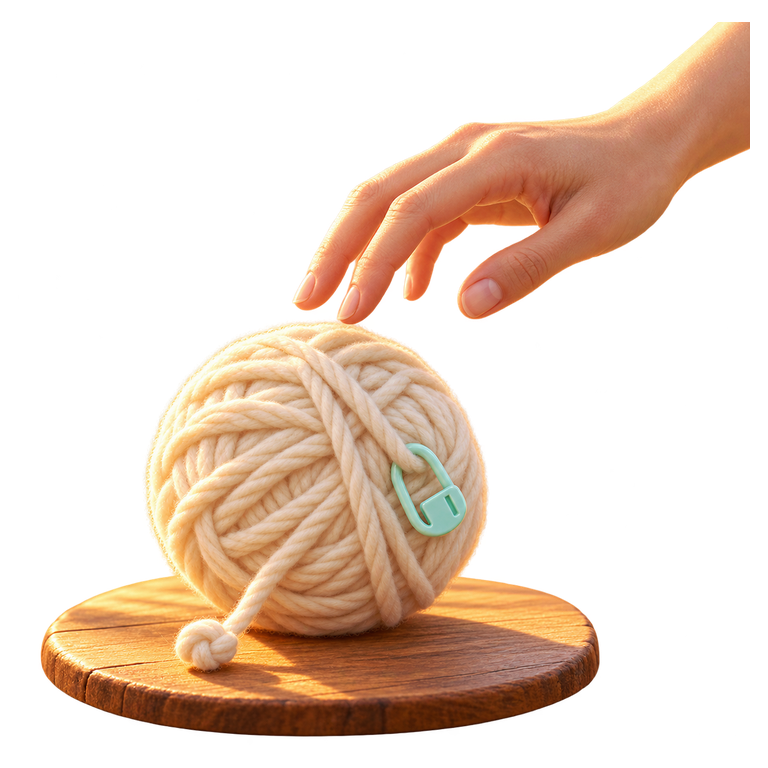
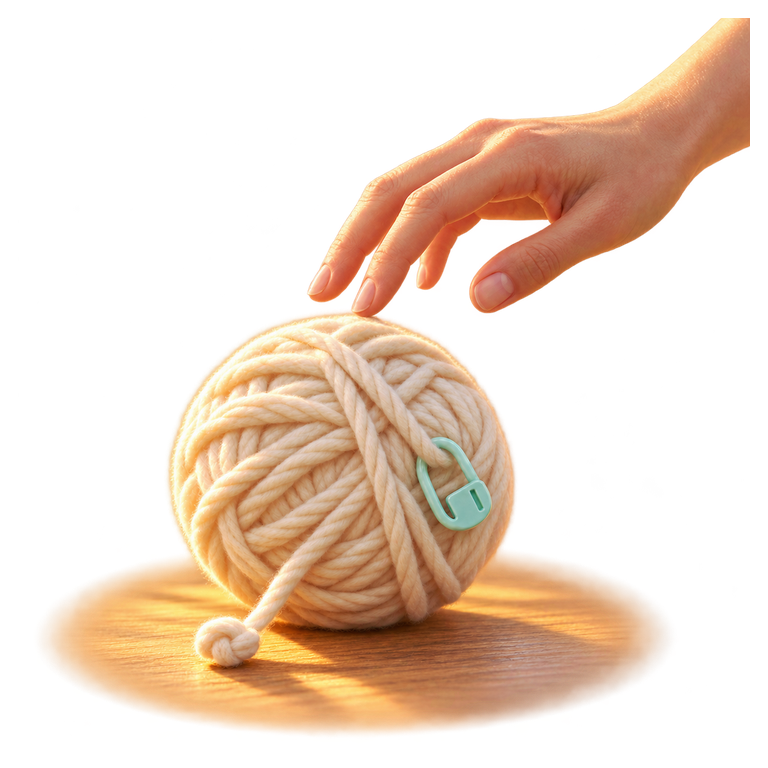
터비 종장 F-6: 보정 에셋 4종 연결(codex/turby-final-assets 5003319 delivery-v4) — 결속 실루엣·실의 길 경계·털실/엄마 손 원반 제거, 화면 전체 연출이 시작되면 원형 기억 비침도 걷는다

diff --git a/save-a-turby/test/finalArt.test.ts b/save-a-turby/test/finalArt.test.ts
@@ -1,4 +1,4 @@
-// 10-26 F-2·F-4: 종장 1·2차 에셋 연결 — 파일·키(파일명)·크기·알파·해시(Codex manifest, codex/turby-final-assets 9e64b65), 지도·대화 배경·연출 키가 지역 데이터·대화와 맞는다.
+// 10-26 F-2·F-4·F-3b, 10-27 F-6 보정(codex/turby-final-assets 5003319): 종장 에셋 연결 — 파일·키(파일명)·크기·알파·해시(Codex manifest, codex/turby-final-assets 9e64b65), 지도·대화 배경·연출 키가 지역 데이터·대화와 맞는다.
 import { test } from 'node:test';
 import assert from 'node:assert/strict';
 import { createHash } from 'node:crypto';
@@ -13,7 +13,7 @@ const ASSETS: [string, string, number, number, boolean, string][] = [
[6 lines of base64/hex data omitted]
   // F-4 2차(최종 전투, codex/turby-final-assets 61fd1f2)
[1 lines of base64/hex data omitted]
@@ -35,10 +35,10 @@ const ASSETS: [string, string, number, number, boolean, string][] = [
[1 lines of base64/hex data omitted]
   // F-3b 3차(엔딩, codex/turby-final-assets 950e3c2)
[9 lines of base64/hex data omitted]
 ];
 

diff --git a/save-a-turby/src/scenes/OpeningScene.ts b/save-a-turby/src/scenes/OpeningScene.ts
@@ -329,6 +329,13 @@ export class OpeningScene extends Phaser.Scene {
     this.fxState.glimpseShown.push(key);
     if (!this.textures.exists(key)) return;
     this.clearEdgeGlimpse();
+    // 10-27 F-6: 떠 있는 원형 기억 비침도 걷는다(다섯 실 해체 → 실의 길이 겹치지 않게)
+    const memory = this.glimpse;
+    if (memory?.active) {
+      this.glimpse = null;
+      this.tweens.killTweensOf(memory);
+      this.tweens.add({ targets: memory, alpha: 0, duration: 300, onComplete: () => memory.destroy() });
+    }
     const img = this.add.image(0, 0, key).setOrigin(0, 0).setDisplaySize(CANVAS_WIDTH, CANVAS_HEIGHT).setAlpha(0).setDepth(7);
     this.edgeGlimpse = img;
     this.tweens.add({ targets: img, alpha: 0.9, duration: 400, ease: 'Sine.easeOut' });
